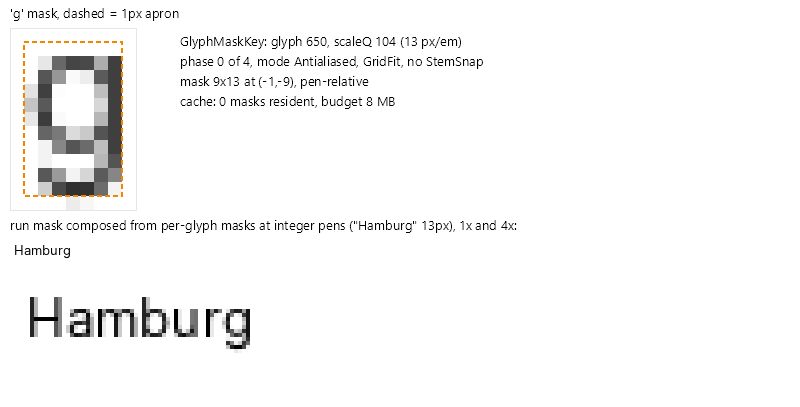
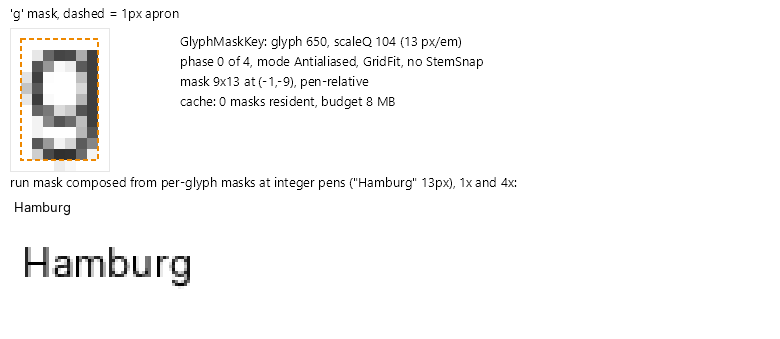
Alternate explorer and quadrant inspector on the Rasterization tab
The side-by-side split starved the inspector of width. The tab now
alternates: the explorer owns the full page until a glyph is selected,
then the inspector takes it, with a Back button and Escape returning to
the explorer. The inspector lays its four stages out as 2x2 quadrants -
hinting, masks, ClearType, Slug payload - so everything is visible
together, and the figures are compacted (smaller zooms, 3x run redraw,
tighter Slug canvas) so typical inspection sizes fit a quadrant without
scrolling. The tier demo section is gone; the Tint tiers checkbox stays
and badges the window's live rendering instead. Doc figures regenerated
at the compacted dimensions.

diff --git a/samples/TextTestApp/Rasterization/RasterizationView.axaml.cs b/samples/TextTestApp/Rasterization/RasterizationView.axaml.cs
@@ -14,12 +14,13 @@ namespace TextTestApp
     /// <summary>
     /// The rasterization inspector: live figures for each stage of the managed glyph pipeline
     /// (hinting warps, mask anatomy, ClearType stages, the Slug payload) plus a live
-    /// tier-routing overlay for the window's own rendering. Selection-driven: it displays
-    /// whatever glyph the explorer or the shaped buffer pushed, at the app's global font
-    /// size, so ligatures and unmapped glyphs are reachable through the explorer.
+    /// tier-routing overlay for the window's own rendering. Selection-driven and laid out
+    /// as quadrants so all four stages are visible together: it displays whatever glyph the
+    /// explorer or the shaped buffer pushed, at the app's global font size.
     /// </summary>
     public partial class RasterizationView : UserControl
     {
+        private Button _backButton = null!;
         private TextBlock _glyphText = null!;
         private ComboBox _hintingBox = null!;
         private CheckBox _gammaBox = null!;
@@ -29,17 +30,20 @@ namespace TextTestApp
         private Image _maskImage = null!;
         private Image _lcdImage = null!;
         private Image _slugImage = null!;
-        private ContentControl _tierSampleHost = null!;
         private GlyphTypeface? _typeface;
         private ushort _glyph;
         private string? _label;
         private float _size = 13;
         private bool _initialized;
 
+        /// <summary>Raised by the Back button; the host swaps the explorer back in.</summary>
+        public event Action? BackRequested;
+
         public RasterizationView()
         {
             AvaloniaXamlLoader.Load(this);
 
+            _backButton = this.FindControl<Button>("BackButton")!;
             _glyphText = this.FindControl<TextBlock>("GlyphText")!;
             _hintingBox = this.FindControl<ComboBox>("HintingBox")!;
             _gammaBox = this.FindControl<CheckBox>("GammaBox")!;
@@ -49,23 +53,17 @@ namespace TextTestApp
             _maskImage = this.FindControl<Image>("MaskImage")!;
             _lcdImage = this.FindControl<Image>("LcdImage")!;
             _slugImage = this.FindControl<Image>("SlugImage")!;
-            _tierSampleHost = this.FindControl<ContentControl>("TierSampleHost")!;
 
             _hintingBox.ItemsSource = new[] { TextHintingMode.Light, TextHintingMode.None, TextHintingMode.Strong };
             _hintingBox.SelectedIndex = 0;
+            _backButton.Click += (_, _) => BackRequested?.Invoke();
 
             _hintingBox.SelectionChanged += (_, _) => Rebuild();
             _gammaBox.IsCheckedChanged += (_, _) => Rebuild();
             _bgrBox.IsCheckedChanged += (_, _) => Rebuild();
             _tintTiersBox.IsCheckedChanged += (_, _) =>
-            {
                 TextTierDiagnostics.TintTiers = _tintTiersBox.IsChecked == true;
 
-                // Fresh content builds fresh draws, so the badges appear immediately.
-                _tierSampleHost.Content = BuildTierSample();
-            };
-
-            _tierSampleHost.Content = BuildTierSample();
             _initialized = true;
 
             if (Environment.GetEnvironmentVariable("GLYPH_INSPECTOR") == "tint")
@@ -175,66 +173,5 @@ namespace TextTestApp
             previous?.Dispose();
         }
 
-        private static Control BuildTierSample()
-        {
-            var gradient = new LinearGradientBrush
-            {
-                StartPoint = new RelativePoint(0, 0, RelativeUnit.Relative),
-                EndPoint = new RelativePoint(1, 0, RelativeUnit.Relative),
-                GradientStops =
-                {
-                    new GradientStop(Colors.OrangeRed, 0),
-                    new GradientStop(Colors.RoyalBlue, 1),
-                },
-            };
-
-            var rotated = new TextBlock
-            {
-                Text = "Rotated 32 px — the mask triage declines, the vector tier takes it",
-                FontSize = 32,
-                RenderTransform = new RotateTransform(14),
-                RenderTransformOrigin = new RelativePoint(0, 0.5, RelativeUnit.Relative),
-                Margin = new Thickness(8, 40, 0, 60),
-                HorizontalAlignment = HorizontalAlignment.Left,
-            };
-
-            return new Border
-            {
-                Background = Brushes.White,
-                BorderBrush = Brushes.Gray,
-                BorderThickness = new Thickness(1),
-                Padding = new Thickness(12),
-                Child = new StackPanel
-                {
-                    Spacing = 6,
-                    Children =
-                    {
-                        new TextBlock
-                        {
-                            Text = "Body text at 13 px composes through cached run masks — the workhorse tier for axis-aligned UI text.",
-                            FontSize = 13,
-                        },
-                        new TextBlock
-                        {
-                            Text = "Zg 200 px",
-                            FontSize = 200,
-                        },
-                        rotated,
-                        new TextBlock
-                        {
-                            Text = "Gradient foreground at 24 px — non-solid brushes fall through to the native blob.",
-                            FontSize = 24,
-                            Foreground = gradient,
-                        },
-                        new TextBlock
-                        {
-                            Text = "Legend: green = run masks, magenta = Slug vector tier, orange = native blob.",
-                            FontSize = 12,
-                            Opacity = 0.7,
-                        },
-                    },
-                },
-            };
-        }
     }
 }

diff --git a/samples/TextTestApp/Rasterization/PipelineFigures.cs b/samples/TextTestApp/Rasterization/PipelineFigures.cs
@@ -66,7 +66,7 @@ namespace TextTestApp
                 hinted.ApplyHorizontalWarp(StemFit.BuildWarp(hinted, 1f));
             }
 
-            var zoom = Math.Clamp(560 / Math.Max(mask.Width, Math.Max(mask.Height, 1)), 8, 36);
+            var zoom = Math.Clamp(400 / Math.Max(mask.Width, Math.Max(mask.Height, 1)), 6, 30);
             const int marginLeft = 96;
             const int marginTop = 28;
             var width = marginLeft + mask.Width * zoom + 150;
@@ -182,12 +182,13 @@ namespace TextTestApp
         /// </summary>
         public static SKBitmap MaskAnatomy(GlyphTypeface typeface, ushort glyph, string label, string runText, float size)
         {
+            // Compact enough for a quadrant; the run redraws at 3x instead of 4x.
             var scaleQ = GlyphMaskKey.QuantizeScale(size);
             var scale = scaleQ / (GlyphMaskKey.ScaleQuantum * typeface.Metrics.DesignEmHeight);
             var mask = GlyphMasks.Build(typeface, new GlyphPathBuilder(),
                 new GlyphMaskKey(glyph, scaleQ, 0, GlyphMaskMode.Antialiased));
 
-            const int zoom = 14;
+            const int zoom = 11;
             var maskPanelWidth = Math.Max(mask.Width * zoom + 20, 300);
 
             // Compose the run into a BGRA buffer exactly the way the renderer does.
@@ -218,8 +219,8 @@ namespace TextTestApp
                 penX += metrics.AdvanceWidth * scale;
             }
 
-            var width = Math.Max(Math.Max(maskPanelWidth + 500, runWidth * 4 + 40), 620);
-            var height = Math.Max(mask.Height * zoom, 130) + runHeight * 5 + 110;
+            var width = Math.Max(Math.Max(maskPanelWidth + 480, runWidth * 3 + 40), 600);
+            var height = Math.Max(mask.Height * zoom, 126) + runHeight * 4 + 104;
             var bitmap = new SKBitmap(new SKImageInfo(width, height, SKColorType.Bgra8888, SKAlphaType.Premul));
 
             using var canvas = new SKCanvas(bitmap);
@@ -267,7 +268,7 @@ namespace TextTestApp
             }
 
             // The composed run at 1x and 4x.
-            var runTop = Math.Max(mask.Height * zoom, 130) + 56;
+            var runTop = Math.Max(mask.Height * zoom, 126) + 52;
 
             using (var image = SKImage.FromPixelCopy(
                        new SKImageInfo(runWidth, runHeight, SKColorType.Bgra8888, SKAlphaType.Premul), run))
@@ -278,7 +279,7 @@ namespace TextTestApp
                     10, runTop - 8, SKTextAlign.Left, font, text);
                 canvas.DrawImage(image, new SKRect(10, runTop, 10 + runWidth, runTop + runHeight));
                 canvas.DrawImage(image,
-                    new SKRect(10, runTop + runHeight + 8, 10 + runWidth * 4, runTop + runHeight + 8 + runHeight * 4),
+                    new SKRect(10, runTop + runHeight + 8, 10 + runWidth * 3, runTop + runHeight + 8 + runHeight * 3),
                     new SKSamplingOptions(SKFilterMode.Nearest));
             }
 
@@ -325,8 +326,8 @@ namespace TextTestApp
 
             GlyphRasterizer.Rasterize(contours, mask.Width * 3, mask.Height, -mask.Left * 3, -mask.Top, false, raw);
 
-            const int zoom = 13;
-            const int gap = 26;
+            const int zoom = 9;
+            const int gap = 20;
             var panelWidth = mask.Width * zoom;
             var raw3Width = mask.Width * 3 * (zoom / 3);
             var width = raw3Width + (panelWidth + gap) * 4 + gap + 20;
@@ -434,7 +435,7 @@ namespace TextTestApp
                 ? SlugBandEncoder.Encode(sink)
                 : null;
 
-            var bitmap = new SKBitmap(new SKImageInfo(620, 640, SKColorType.Bgra8888, SKAlphaType.Premul));
+            var bitmap = new SKBitmap(new SKImageInfo(560, 520, SKColorType.Bgra8888, SKAlphaType.Premul));
 
             using var canvas = new SKCanvas(bitmap);
             using var font = new SKFont(SKTypeface.Default, 13);
@@ -449,10 +450,10 @@ namespace TextTestApp
                 return bitmap;
             }
 
-            const float left = 50;
-            const float top = 40;
+            const float left = 46;
+            const float top = 32;
             var extent = Math.Max(data.MaxX - data.MinX, data.MaxY - data.MinY);
-            var s = 480f / extent;
+            var s = 370f / extent;
 
             float MapX(float x) => left + (x - data.MinX) * s;
             float MapY(float y) => top + (data.MaxY - y) * s;   // em space is y-up
@@ -525,13 +526,10 @@ namespace TextTestApp
                 $"{label}: {data.ContourCount} contours, {data.TotalCurveCount} quadratic curves, " +
                 $"{data.HorizontalBandCount}x{data.VerticalBandCount} bands (worst list {worstBand} of {SlugTexelSerializer.MaxBandListLength}), " +
                 $"payload {data.RetainedBytes} B, {data.FillRule}",
-                10, 630 - 60, SKTextAlign.Left, font, text);
+                10, 520 - 40, SKTextAlign.Left, font, text);
             canvas.DrawText(
-                "green counts = curves per band list; the shader walks exactly one horizontal or vertical list per pixel",
-                10, 630 - 40, SKTextAlign.Left, font, text);
-            canvas.DrawText(
-                "encoded once per glyph ever, in em space; every size and rotation renders from this payload",
-                10, 630 - 20, SKTextAlign.Left, font, text);
+                "green counts = curves per band list; encoded once per glyph ever, in em space",
+                10, 520 - 20, SKTextAlign.Left, font, text);
 
             return bitmap;
         }

diff --git a/samples/TextTestApp/MainWindow.axaml.cs b/samples/TextTestApp/MainWindow.axaml.cs
@@ -34,7 +34,14 @@ namespace TextTestApp
             _font.SelectionChanged += (_, _) => PushFontContext();
             _size.TextChanged += (_, _) => PushFontContext();
             PushFontContext();
-            _explorer.GlyphSelected += (typeface, glyph, label) => _raster.ShowGlyph(typeface, glyph, label);
+            // The Rasterization tab alternates: the explorer owns the full page until a
+            // glyph is selected, then the inspector takes it; Back (or Escape) returns.
+            _explorer.GlyphSelected += (typeface, glyph, label) =>
+            {
+                _raster.ShowGlyph(typeface, glyph, label);
+                ShowInspector(true);
+            };
+            _raster.BackRequested += () => ShowInspector(false);
 
             // Figure export for docs/glyph-rasterization/images: deterministic Inter renders
             // through the same code the Rasterization tab shows live.
@@ -63,7 +70,18 @@ namespace TextTestApp
                     "ab" => 4,
                     _ => 1,
                 };
+
+                if (inspect is "1" or "tint")
+                {
+                    ShowInspector(true);
+                }
             }
+        }
+
+        private void ShowInspector(bool visible)
+        {
+            _raster.IsVisible = visible;
+            _explorer.IsVisible = !visible;
         }
 
         private void PushFontContext()
@@ -101,7 +119,12 @@ namespace TextTestApp
             }
             else if (e.Key == Key.Escape)
             {
-                if (_hits.IsKeyboardFocusWithin && _hits.SelectedIndex != -1)
+                if (_globalTabs.SelectedIndex == 1 && _raster.IsVisible)
+                {
+                    ShowInspector(false);
+                    e.Handled = true;
+                }
+                else if (_hits.IsKeyboardFocusWithin && _hits.SelectedIndex != -1)
                 {
                     _hits.SelectedIndex = -1;
                     e.Handled = true;
@@ -261,6 +284,7 @@ namespace TextTestApp
                 {
                     _raster.ShowGlyph(rowTypeface, rowGlyph, rowLabel);
                     _globalTabs.SelectedIndex = 1;
+                    ShowInspector(true);
                 };
 
                 _buffer.Items.Add(border);

diff --git a/docs/glyph-rasterization/testing.md b/docs/glyph-rasterization/testing.md
@@ -51,7 +51,7 @@ Two apps split the tooling by layer:
 
 `samples/GlyphRasterDemo` is the capability tour and A/B review surface: a size waterfall, animated foreground tint, script fallback, transformed and zoomed text (the Slug sections), COLR emoji at several sizes, variable font ramps, and a per-mode rendering block. The header switches `TextRasterizationMode` (Managed / Managed without Slug / Backend) live, exposes `TextRenderingMode` and `TextHintingMode` combos that apply to the whole page through the inherited `TextOptions`, and carries a tier-tint checkbox.
 
-`samples/TextTestApp` covers the whole text pipeline behind three global tabs. Text is the formatting layer (interactive line, shaped buffer, hit testing). Rasterization puts the glyph explorer and the pipeline inspector side by side: the explorer is a paged grid over glyph-id space, rendered through the real mask tier, with capability badges and filters (COLR color glyphs, bitmap strikes, missing outlines) and per-glyph identity, metrics and Slug payload status; the inspector shows live versions of the figures in these docs (hinting anatomy with zones and stroke pairs, mask anatomy, the ClearType stages, the Slug band partition) for the currently selected glyph at the app-global font and size, plus the tier-routing overlay that badges every run in the window by the tier that drew it (green run masks, magenta Slug, orange native blob; `TextTierDiagnostics` in Avalonia.Skia). Waterfall shows a size ladder against the hinting modes, and Fringes classifies every subpixel fringe by polarity (warm-left and cool-right are physically correct for RGB stripes; anything else flags magenta as the swapped-order/double-blend signal) — both draw through `DrawingContextImpl` on an RGB-striped raster surface, so they show true LCD output in-app. The explorer sidebar also displays the selected font's line-metric provenance (which of typo/usWin/hhea won, with the raw triads) and a once-a-second pipeline HUD: mask cache occupancy, Slug store size and per-tier draw counters. A/B Diff renders the same text under two configurations (rasterization mode, hinting, rendering mode) through `RenderTargetBitmap` and shows both renders, an aligned overlay, a per-pixel difference heat map and numeric stats (RMSE, differing pixels, max channel delta); saving and loading a reference PNG turns it into a between-commits regression check (note: on the CPU raster target subpixel degrades to grayscale, so LCD comparisons need a live window). Clicking a cell in the explorer or double-clicking a glyph in the shaped buffer shows it in the inspector with the exact typeface instance; the global font and size selection drives every view. `GLYPH_INSPECTOR=1|tint|ab` selects the tab directly, and `GLYPH_FIGURE_EXPORT_DIR=<dir>` regenerates the doc figures from the repo's Inter asset.
+`samples/TextTestApp` covers the whole text pipeline behind three global tabs. Text is the formatting layer (interactive line, shaped buffer, hit testing). Rasterization alternates between the glyph explorer and the pipeline inspector (selecting a glyph swaps the inspector in, laid out as quadrants so all four stages are visible together; Back or Escape returns): the explorer is a paged grid over glyph-id space, rendered through the real mask tier, with capability badges and filters (COLR color glyphs, bitmap strikes, missing outlines) and per-glyph identity, metrics and Slug payload status; the inspector shows live versions of the figures in these docs (hinting anatomy with zones and stroke pairs, mask anatomy, the ClearType stages, the Slug band partition) in a 2x2 quadrant grid for the currently selected glyph at the app-global font and size, plus the tier-routing overlay checkbox that badges every run in the window by the tier that drew it (green run masks, magenta Slug, orange native blob; `TextTierDiagnostics` in Avalonia.Skia). Waterfall shows a size ladder against the hinting modes, and Fringes classifies every subpixel fringe by polarity (warm-left and cool-right are physically correct for RGB stripes; anything else flags magenta as the swapped-order/double-blend signal) — both draw through `DrawingContextImpl` on an RGB-striped raster surface, so they show true LCD output in-app. The explorer sidebar also displays the selected font's line-metric provenance (which of typo/usWin/hhea won, with the raw triads) and a once-a-second pipeline HUD: mask cache occupancy, Slug store size and per-tier draw counters. A/B Diff renders the same text under two configurations (rasterization mode, hinting, rendering mode) through `RenderTargetBitmap` and shows both renders, an aligned overlay, a per-pixel difference heat map and numeric stats (RMSE, differing pixels, max channel delta); saving and loading a reference PNG turns it into a between-commits regression check (note: on the CPU raster target subpixel degrades to grayscale, so LCD comparisons need a live window). Clicking a cell in the explorer or double-clicking a glyph in the shaped buffer shows it in the inspector with the exact typeface instance; the global font and size selection drives every view. `GLYPH_INSPECTOR=1|tint|ab` selects the tab directly, and `GLYPH_FIGURE_EXPORT_DIR=<dir>` regenerates the doc figures from the repo's Inter asset.
 
 ## Runner notes
 
